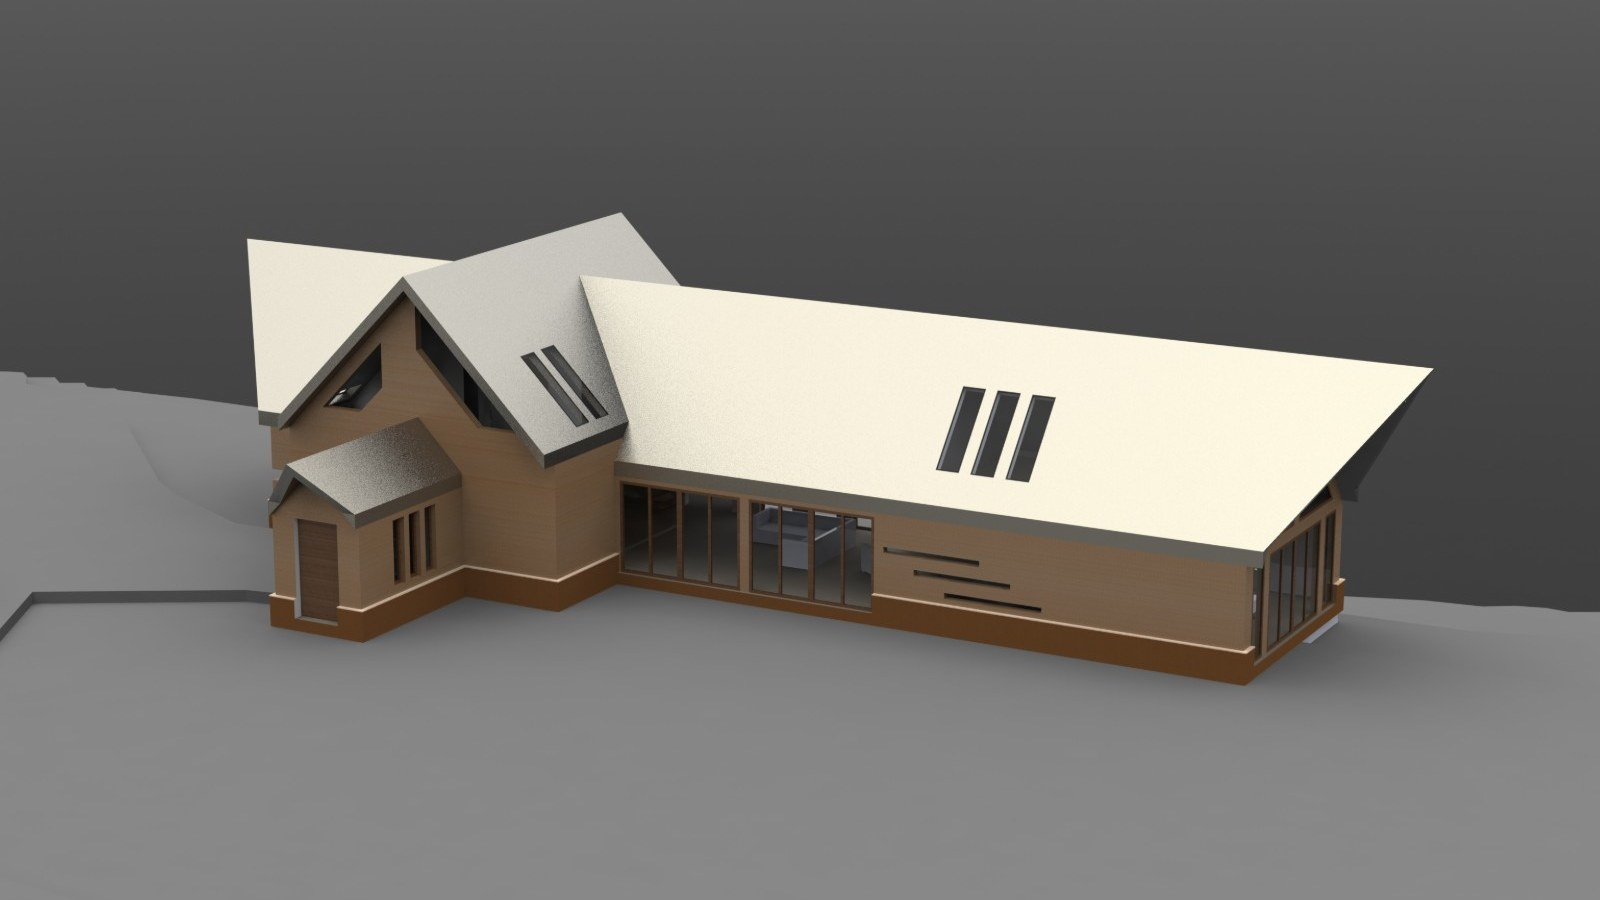
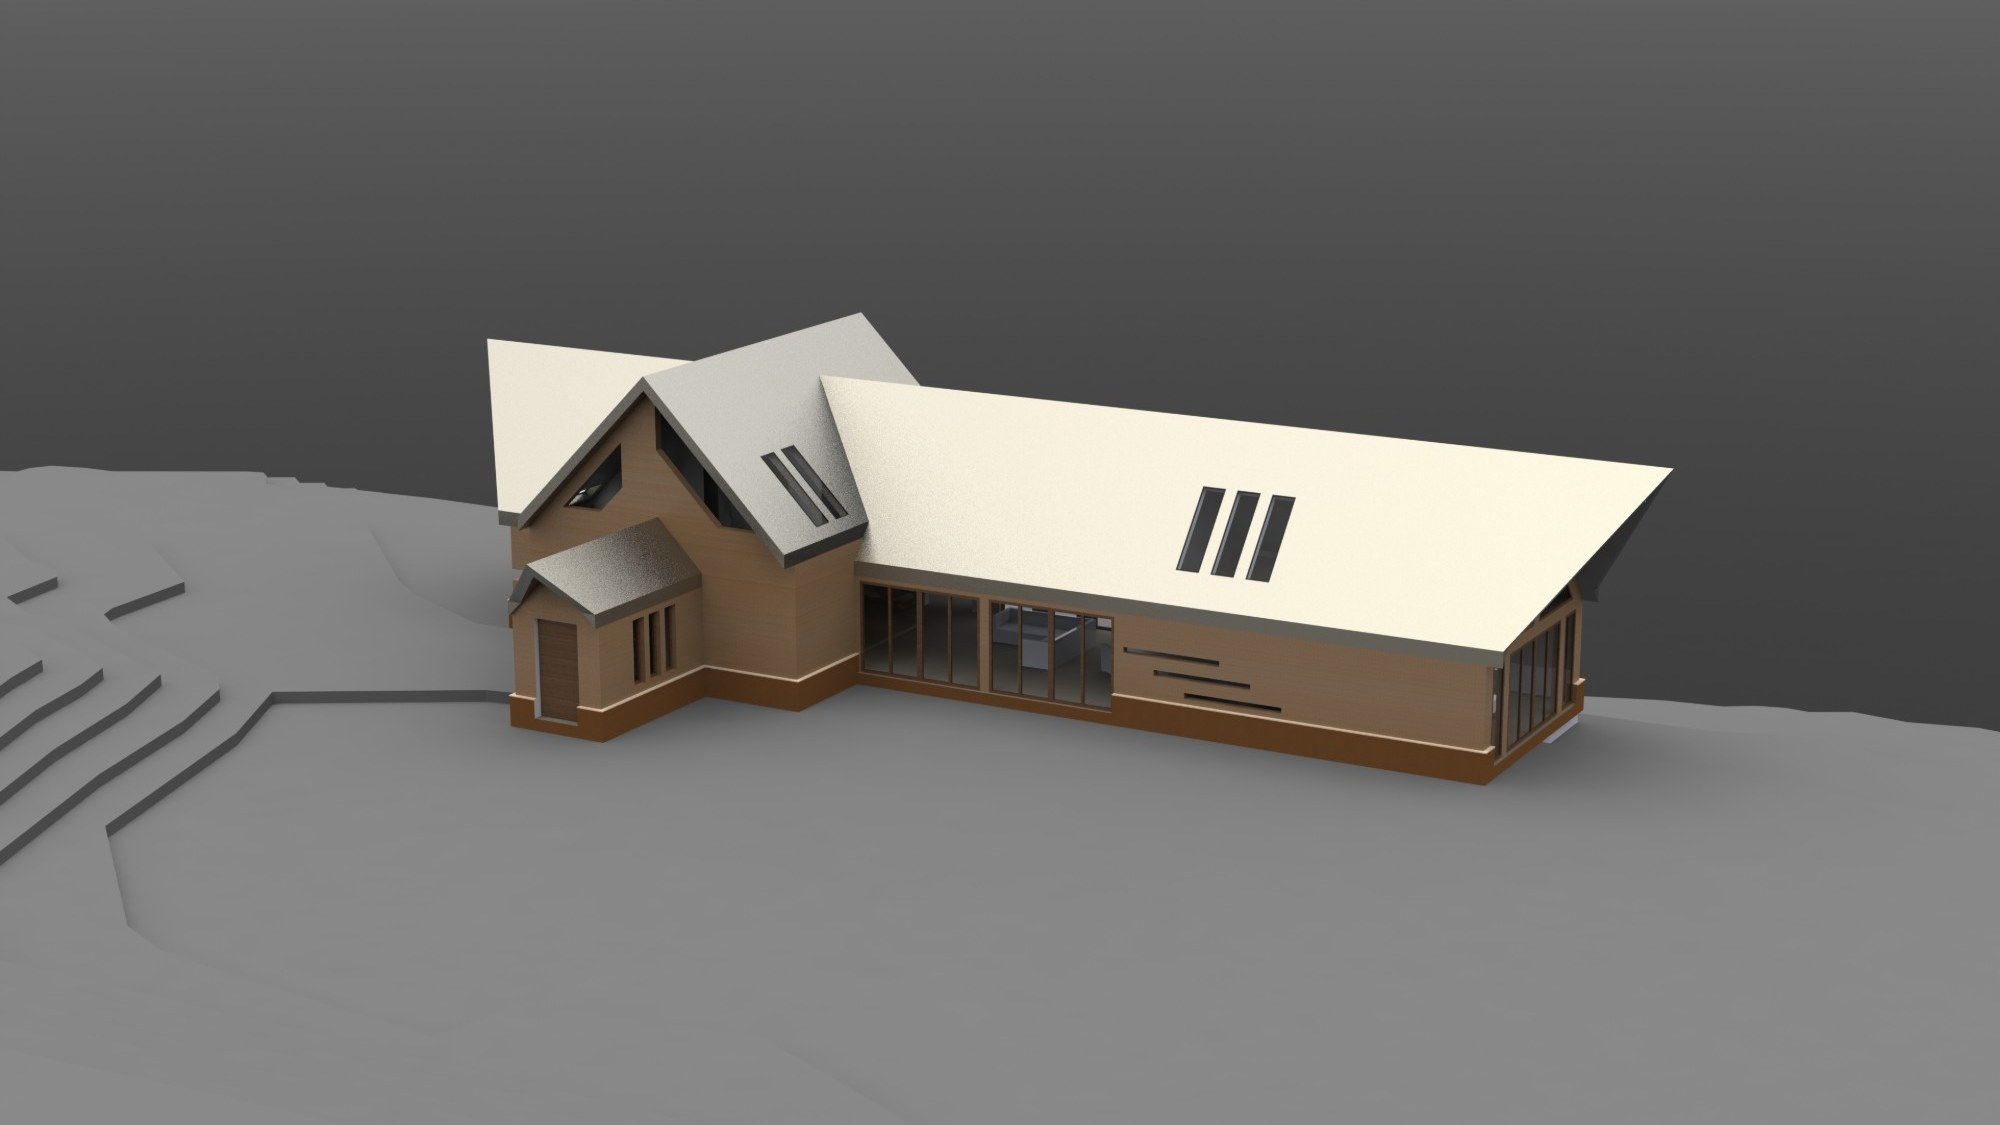
Home: new cover images for Canyon House and Loft House
Claude-Session: https://claude.ai/code/session_01FRyJPBebUtKmxdzujR9oGm

Changed region(s): [[0.0, 0.2178, 1.0, 0.7778], [0.0312, 0.4978, 0.0938, 0.56], [0.0, 0.4978, 0.0312, 0.5289]]

diff --git a/index.html b/index.html
@@ -99,7 +99,7 @@
   </a>
 
   <a class="tile" href="projects/loft-house.html" data-tags="id">
-    <img src="images/projects/loft-house/cover.jpg" alt="Loft House exterior render at dusk">
+    <img src="images/projects/loft-house/cover.jpg" alt="Loft House side elevation: shed roof, clerestory windows, and raised deck on timber columns">
     <div class="cap"><span>Architecture · Concept · 2020</span><h3>Loft House</h3></div>
   </a>
 </main>
